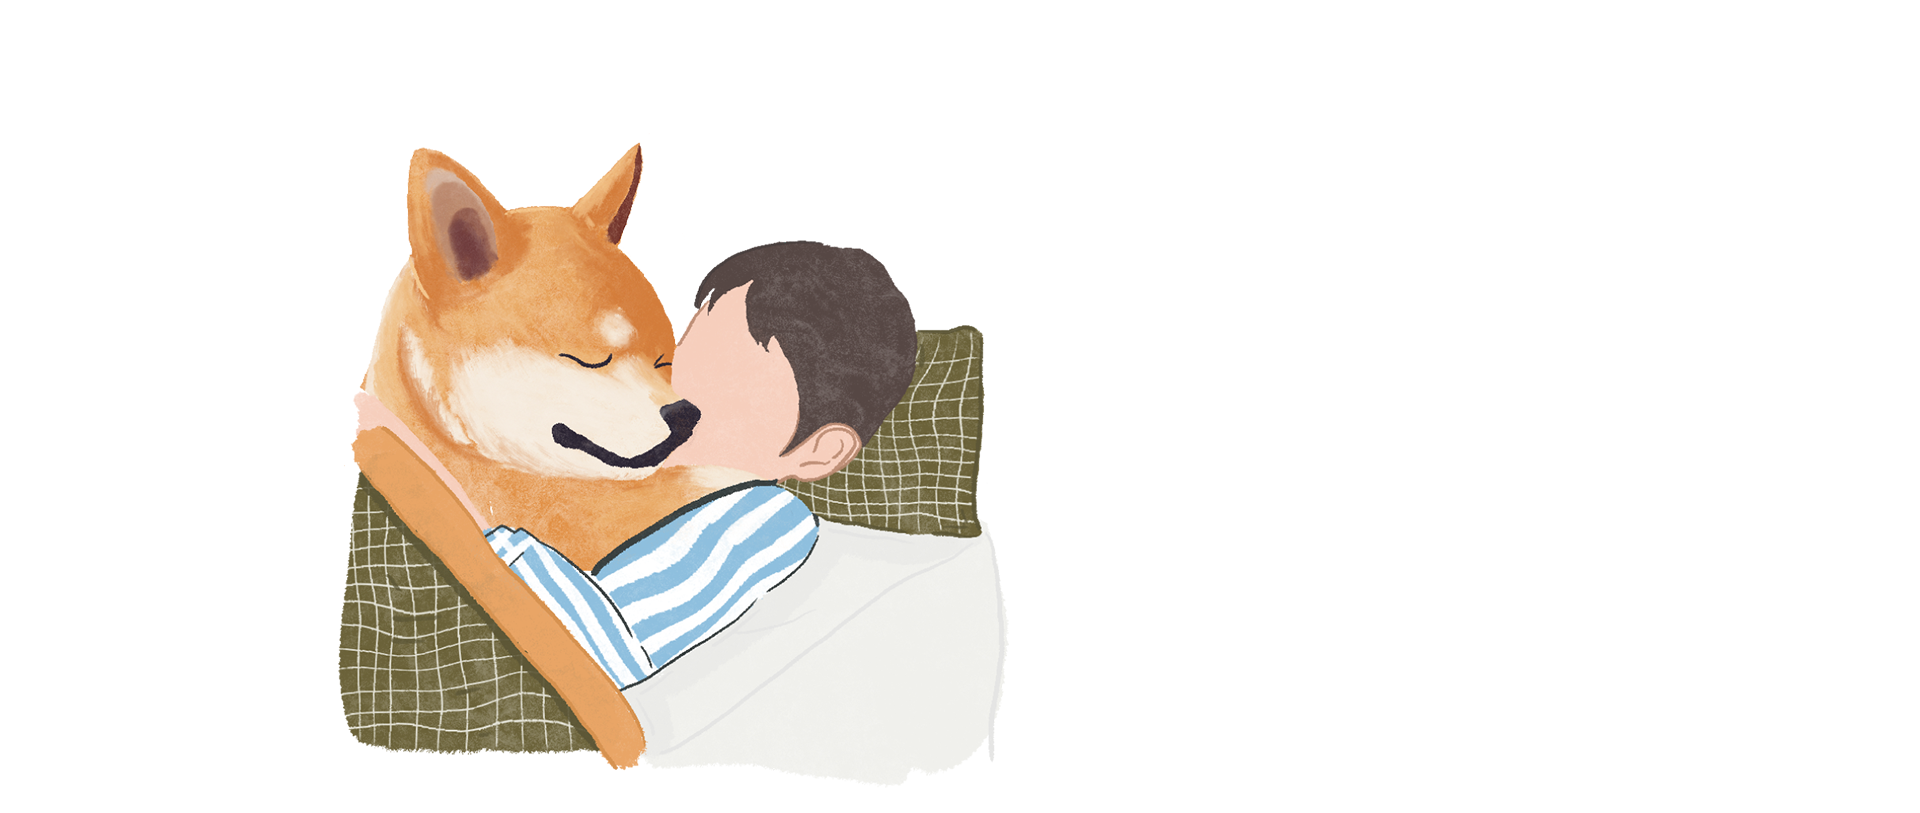
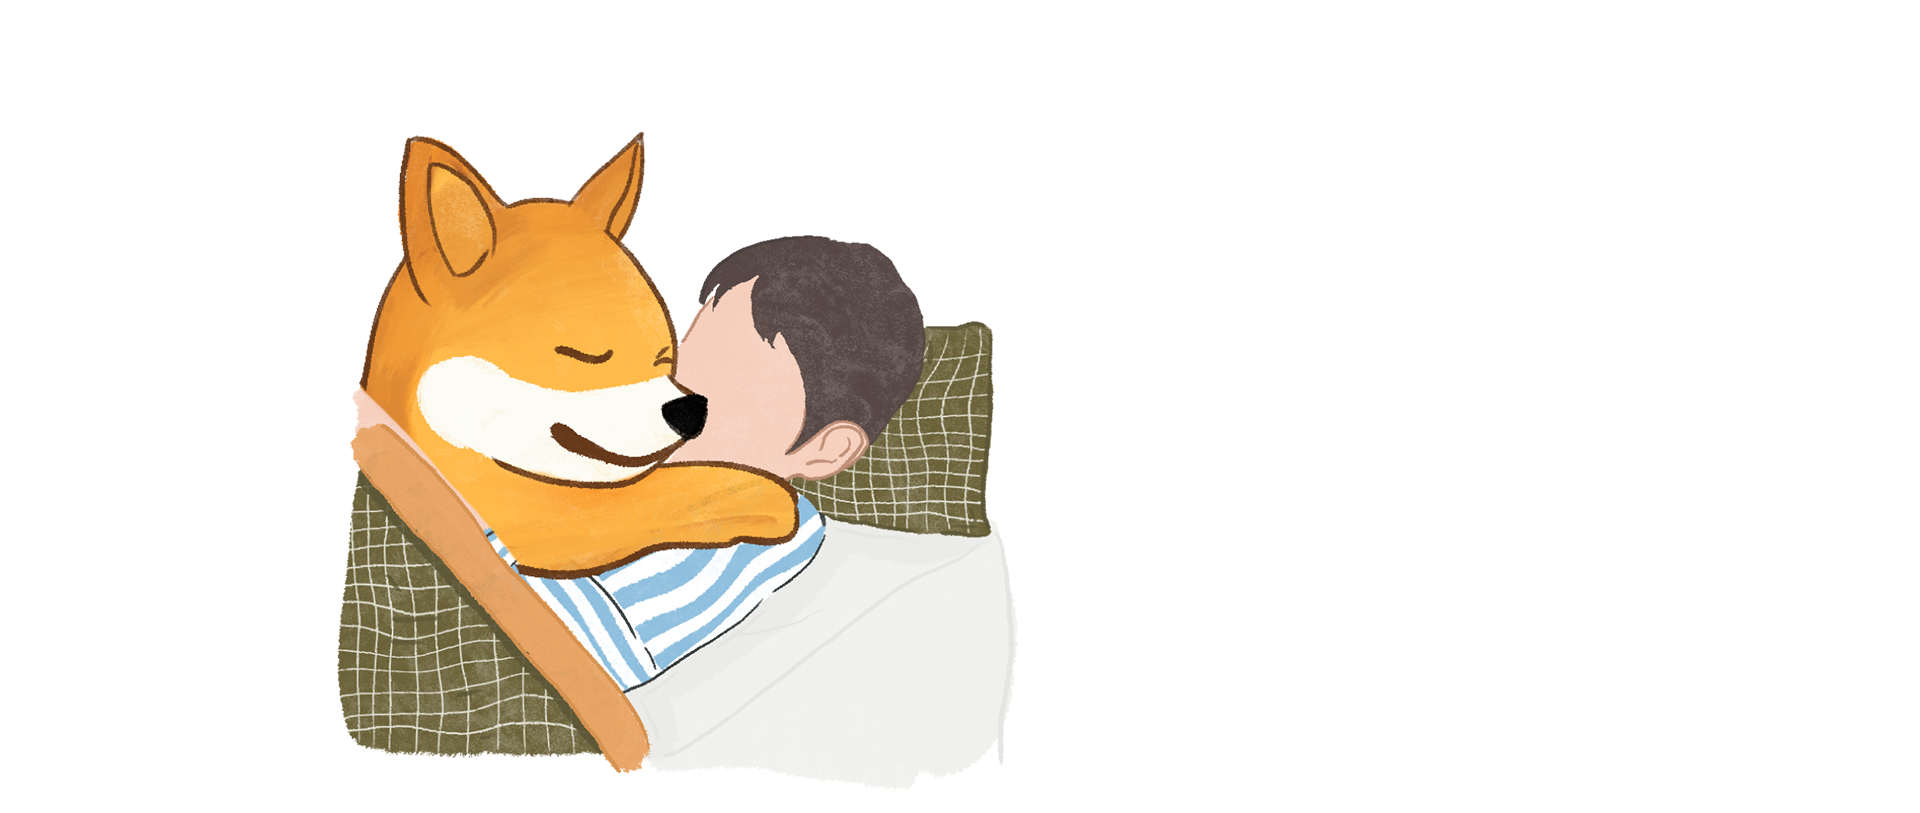
edit position obj in st 11,14,15,17

Changed region(s): [[0.1562, 0.1538, 0.5312, 0.9533], [0.375, 0.2768, 0.4688, 0.3383]]

diff --git a/src/components/story/story-14.js b/src/components/story/story-14.js
@@ -7,6 +7,7 @@ import Vfx from "../../Images/story_14/vfx.gif";
 import BGTextBot from "../../Images/story_14/text-bg-1.png";
 import BGTextTop from "../../Images/story_14/text-bg-2.png";
 import HowTo from "../../Images/story_14/Pickupshit.gif";
+import Bg_Park from "../../Images/story_14/bg-park.png";
 
 import Chat from "../message";
 
@@ -191,29 +192,32 @@ function Story14() {
                     </div>
                     <div></div>
                 </div>
-                <div className=" grid grid-cols-2 gap-[5%] justify-center pt-[10%]">
-                    <div className= "flex justify-start">
-                        <div className="z-0">
-                            <img className="absolute left-[5%] w-[25%]" src={Bin}/>
-                        </div>
-                        <div className="pt-[20%] z-10">
-                            <img className="absolute left-[17%] w-[35%]" src={Dog}/>
-                        </div>
-                        <div className="flex pt-[75%] pl-[45%] z-20">
-                            <img className="absolute w-[5%]" src={Poop}/>  
-                        </div>
-                    </div>
-                    <div className=" flex justify-end">
-                        <div className="pr-[20%] pt-[25%]">
-                            <Chat 
-                            text="“มีตังค์ทำไมทำแบบนี้" 
-                            text2="เราจะอึข้างนอกไม่ได้" 
-                            text3="ถ้าไม่ใช่ในบ้านเรา”" 
-                            isMe={false} 
-                            showIcon={true} 
-                            icon="male"/>
-                        </div>
-                    </div>
+                <div>
+                  <img className=" absolute" src={Bg_Park}/>
+                  <div className=" grid grid-cols-2 gap-[5%] justify-center pt-[10%]">
+                      <div className= "flex justify-start">
+                          <div className="z-0 pt-[15%]">
+                              <img className="absolute left-[5%] w-[25%]" src={Bin}/>
+                          </div>
+                          <div className="pt-[23%] z-10">
+                              <img className="absolute left-[17%] w-[35%]" src={Dog}/>
+                          </div>
+                          <div className="flex pt-[80%] pl-[45%] z-20">
+                              <img className="absolute w-[5%]" src={Poop}/>  
+                          </div>
+                      </div>
+                      <div className=" flex justify-end">
+                          <div className="pr-[20%] pt-[25%]">
+                              <Chat 
+                              text="“มีตังค์ทำไมทำแบบนี้" 
+                              text2="เราจะอึข้างนอกไม่ได้" 
+                              text3="ถ้าไม่ใช่ในบ้านเรา”" 
+                              isMe={false} 
+                              showIcon={true} 
+                              icon="male"/>
+                          </div>
+                      </div>
+                  </div>
                 </div>
             </div>
             <div className="pt-[10%]">

diff --git a/src/components/story/story-11.js b/src/components/story/story-11.js
@@ -8,6 +8,7 @@ import Sunset from "../../components/sunset";
 import Chat from "../chat";
 import ClockTop from "../clock";
 import Title from "../title";
+import Tips from "../tips";
 
 import { useEffect, useRef } from "react";
 import gsap from "gsap";
@@ -118,7 +119,7 @@ function Story11() {
         <div className="grid grid-cols-2 pt-[15%] ">
             <div className="flex flex-col" >
             <div className="flex justify-center">
-                <img className="w-[60%] pl-[20%]" src={Door} alt="Door" ref={doorRef} />
+                <img className="w-[70%] pl-[20%]" src={Door} alt="Door" ref={doorRef} />
             </div>
             </div>
 
@@ -134,6 +135,13 @@ function Story11() {
             </div>
             </div>
         </div>
+            <div className=" flex justify-end pr-[10%]">
+                <Tips 
+                text="ควรใส่สายจูงให้น้องสุนัขทุกครั้ง"
+                text2="เมื่่อพาออกนอกบ้าน"
+                isLeft={false}
+                />
+            </div>
             <div className="pt-[5%]" ref={title_story11_1Ref}>
             <Title title="ไปเดินเล่นกัน!"/>
             </div>

diff --git a/src/components/story/story-15.js b/src/components/story/story-15.js
@@ -93,7 +93,7 @@ function Story15() {
                   <img className=" w-[30%] z-30" src={Braf}/>
                 </div>
               </div> 
-            <img className="left-[55%] pt-[35%] absolute w-[40%] z-20" src={Tie}/>   
+            <img className="left-[55%] pt-[42%] absolute w-[40%] z-20" src={Tie}/>   
             <img className=" z-0" src={Bgkitchen}/>
           </div>
 

diff --git a/src/components/story/story-17.js b/src/components/story/story-17.js
@@ -1,6 +1,6 @@
 import Tips from "../tips";
 
-import dog from "../../Images/story_17/dog-eat.gifn";
+import dog from "../../Images/story_17/dog-eat.gif";
 import bg_dog from "../../Images/story_17/done.png";
 import feed from "../../Images/story_17/slow-feed.png";
 
